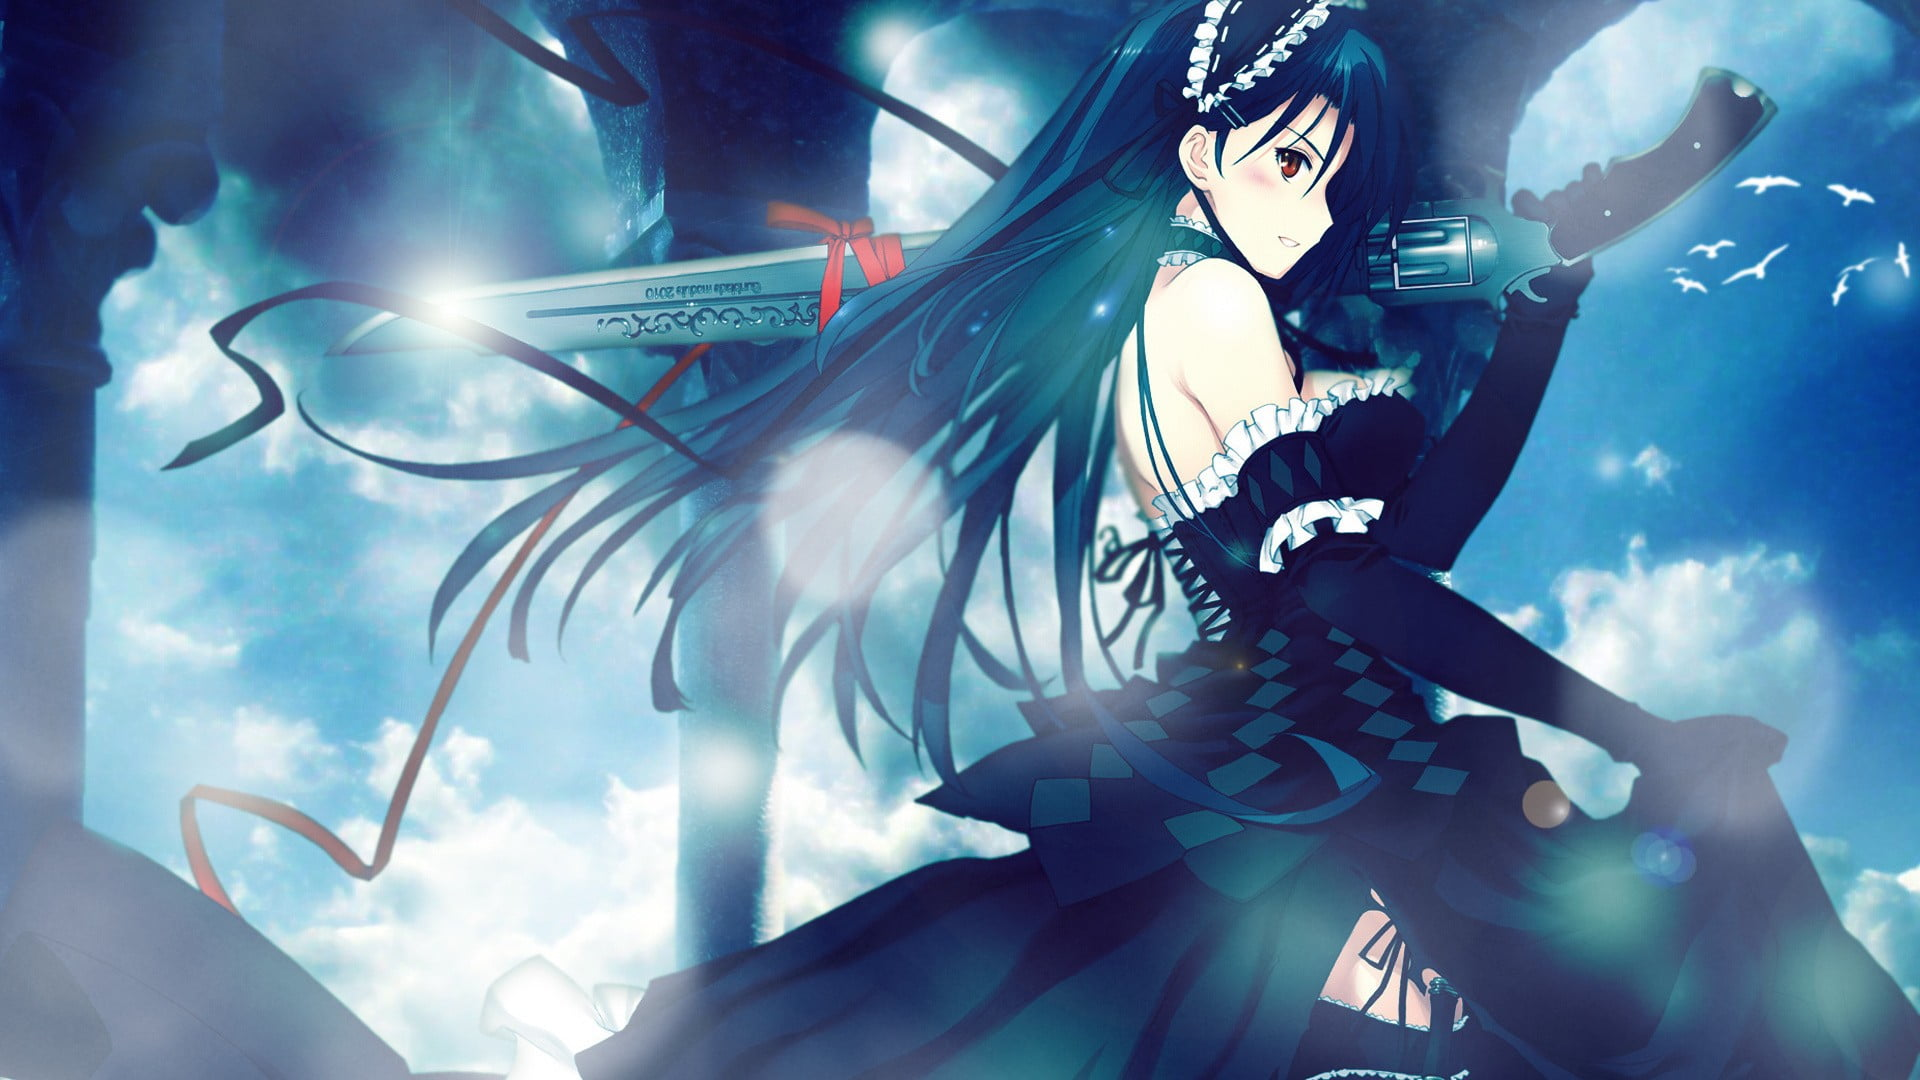
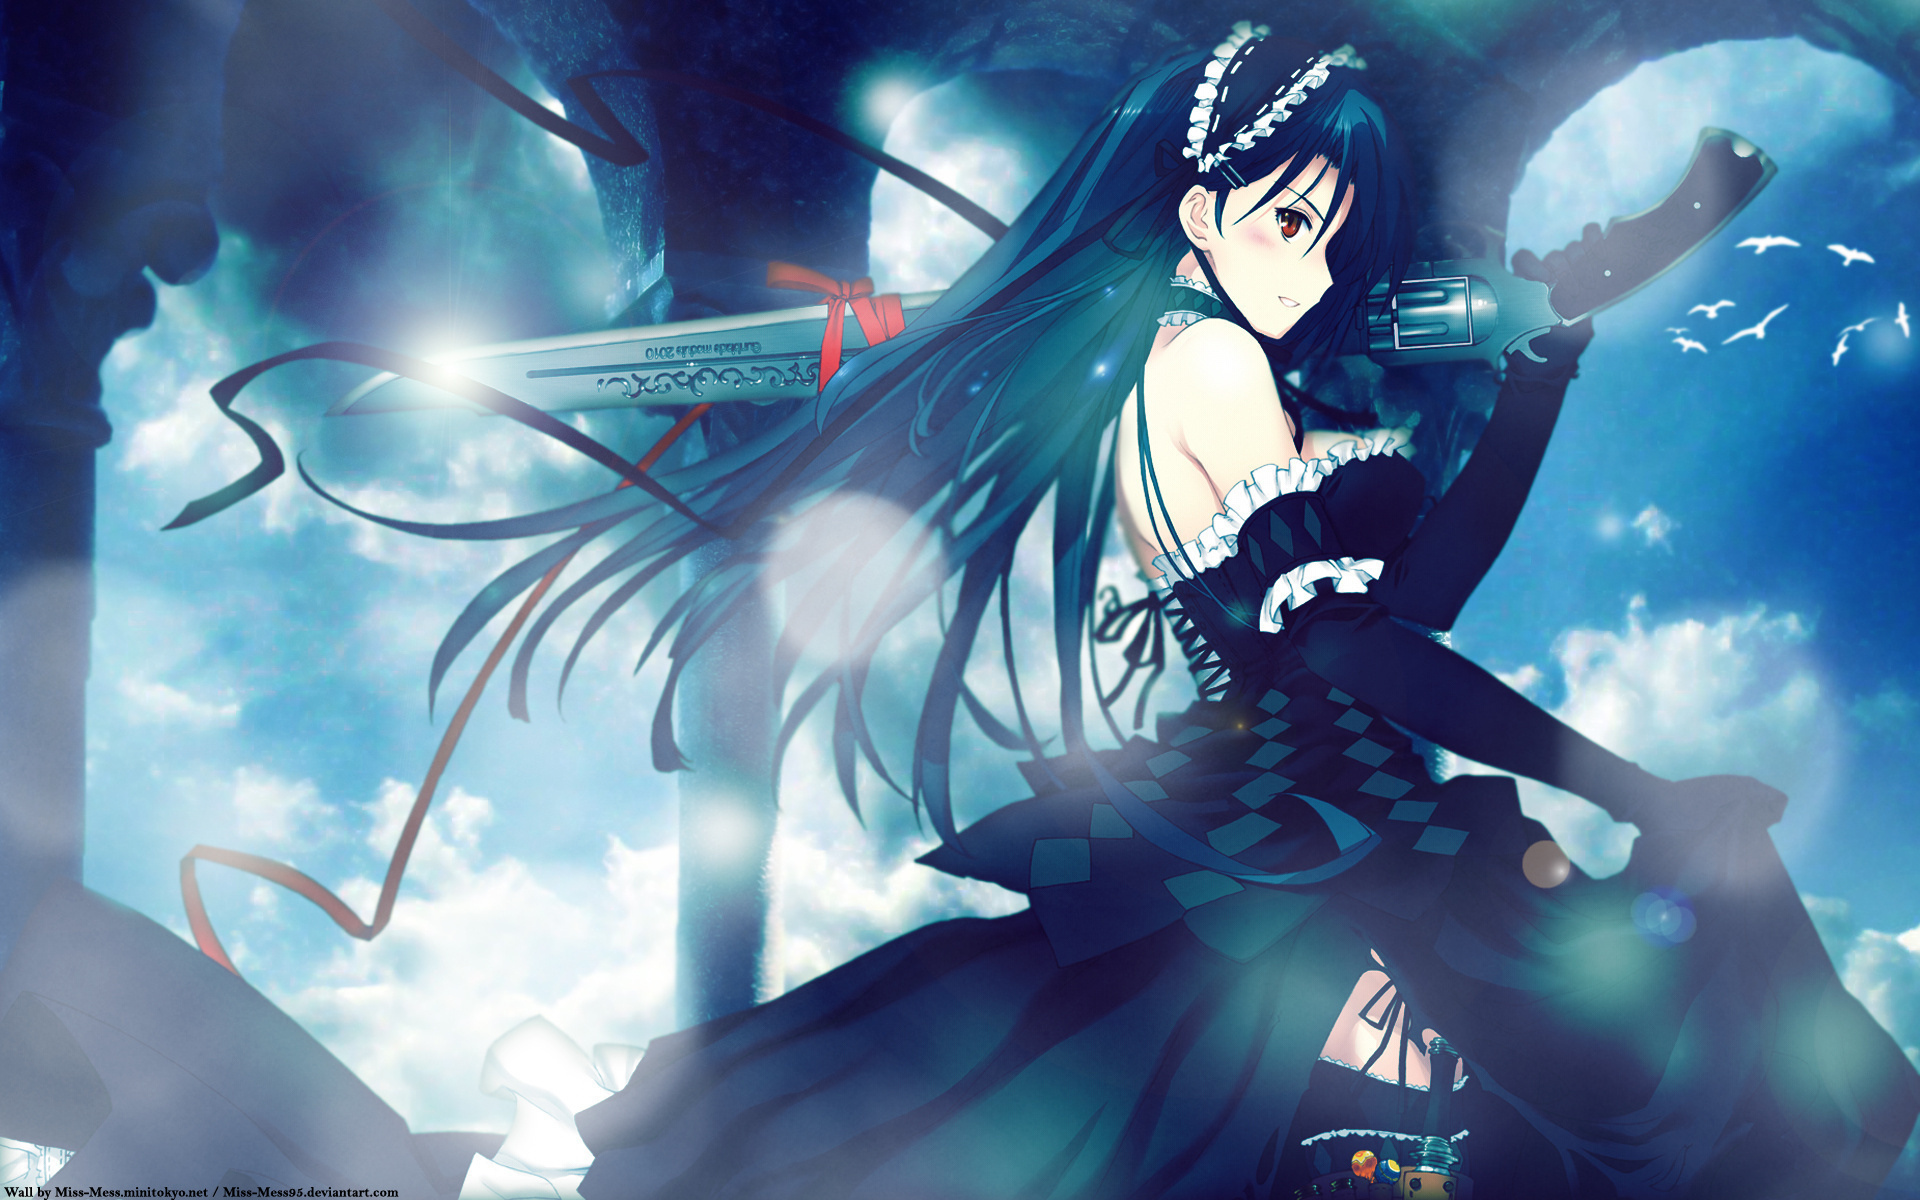
gun-blade girl JPG

diff --git a/swords/sword-length.html b/swords/sword-length.html
@@ -63,6 +63,10 @@ a amp-img {
 	max-width: 1440px;
 	margin: 0 auto;
 	}
+#sword {
+	max-width: 1920px;
+	margin: 0 auto;
+	}
 .kendo {
 	max-width: 640px;
 	display: inline;
@@ -862,7 +866,16 @@ Secrets to Win</a></li>
 		</amp-img>
 	</div>
     <div class="answer"><p>Ok, just my thought on the <em>custom made sword for home defence...</em> Have a shotgun built into the thing. If someone breaks into your house they will most likely have a gun and if you pull a sword on them they will just have an excuse to shoot you.</p></div>
-     
+    <div id="gunner" about="#real">
+		<amp-img src="https://nakigoe.github.io/_IMG/gunblade.jpg"
+		width="1920"
+		height="1080"
+		layout="responsive"
+		alt="Modern Gun-Sword"
+		property="image" typeOf="ImageObject">
+		<meta property="caption" content="Modern Gun-Sword">
+		</amp-img>
+	</div>
     <div class="answer"><p>Unless you're a Jedi, you will be wasting your money on a sword for home defence. I've trained for years in swordplay, and I know that there are only a handful of scenarios that home defence of a sword is the best option... And all of those options include an unarmed intruder. Because you won't know an intruder is armed until it's too late, the sword defence scenarios are out the window. Security doors and windows are a much better investment.</p></div>
     <div id="vigi" about="#sword">
 		<amp-img src="https://nakigoe.github.io/_IMG/vigilante.jpg"
